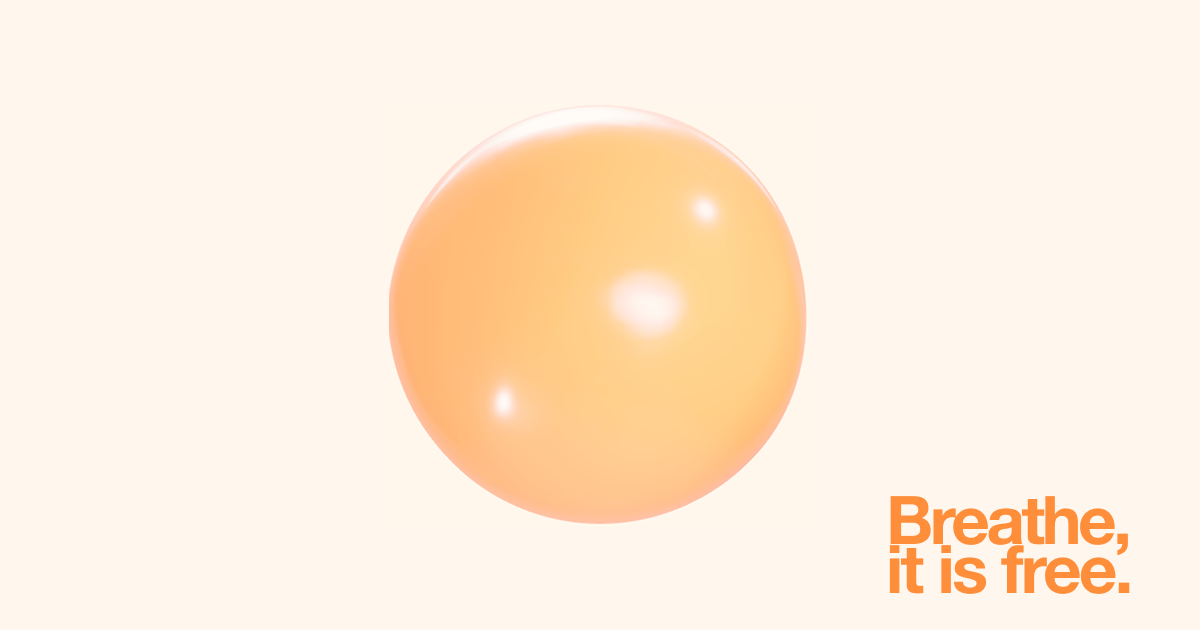
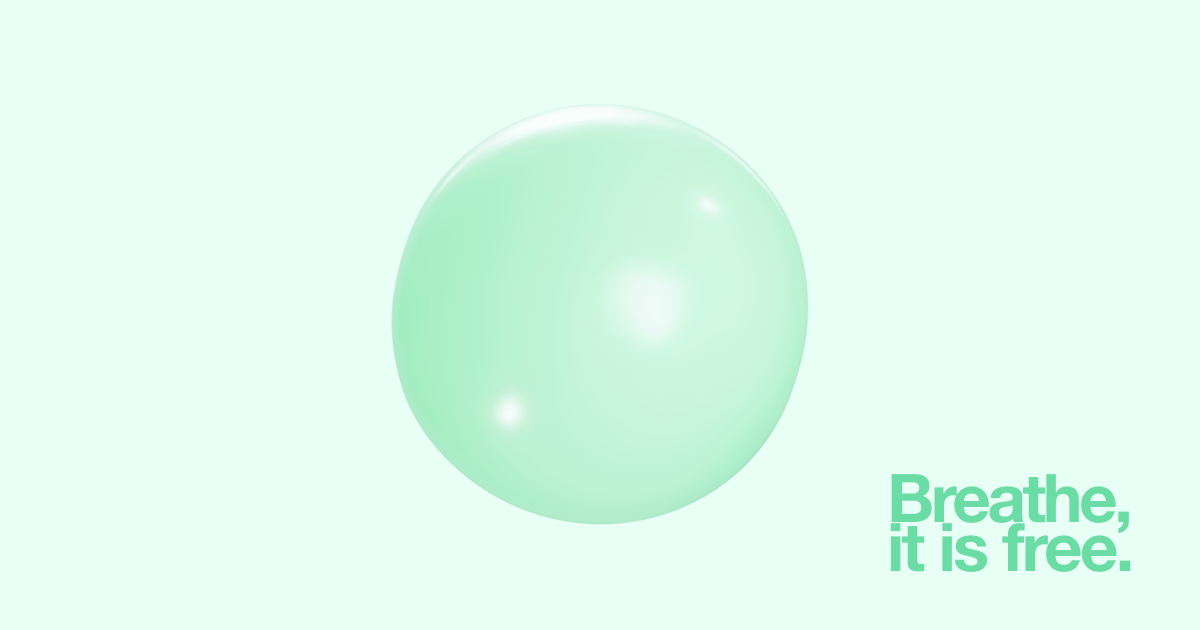
fix: Remove versioning from Open Graph and Twitter card image URLs

Changed region(s): [[0.3083, 0.1508, 0.6783, 0.8444], [0.74, 0.754, 0.9558, 0.9651]]

diff --git a/index.html b/index.html
@@ -21,7 +21,7 @@
   <meta property="og:description"
     content="A free, minimal guided breathing app to help you relax, focus and sleep better." />
   <meta property="og:url" content="https://www.breatheitisfree.app/" />
-  <meta property="og:image" content="https://www.breatheitisfree.app/og-image.png?v=2" />
+  <meta property="og:image" content="https://www.breatheitisfree.app/og-image.png" />
   <meta property="og:image:width" content="1200" />
   <meta property="og:image:height" content="630" />
   <meta property="og:image:alt" content="Breathe, it is free. A minimal guided breathing app." />
@@ -31,7 +31,7 @@
   <meta name="twitter:title" content="Breathe, it is free." />
   <meta name="twitter:description"
     content="A free, minimal guided breathing app to help you relax, focus and sleep better." />
-  <meta name="twitter:image" content="https://www.breatheitisfree.app/og-image.png?v=2" />
+  <meta name="twitter:image" content="https://www.breatheitisfree.app/og-image.png" />
   <meta name="twitter:image:alt" content="Breathe, it is free. A minimal guided breathing app." />
 </head>
 
